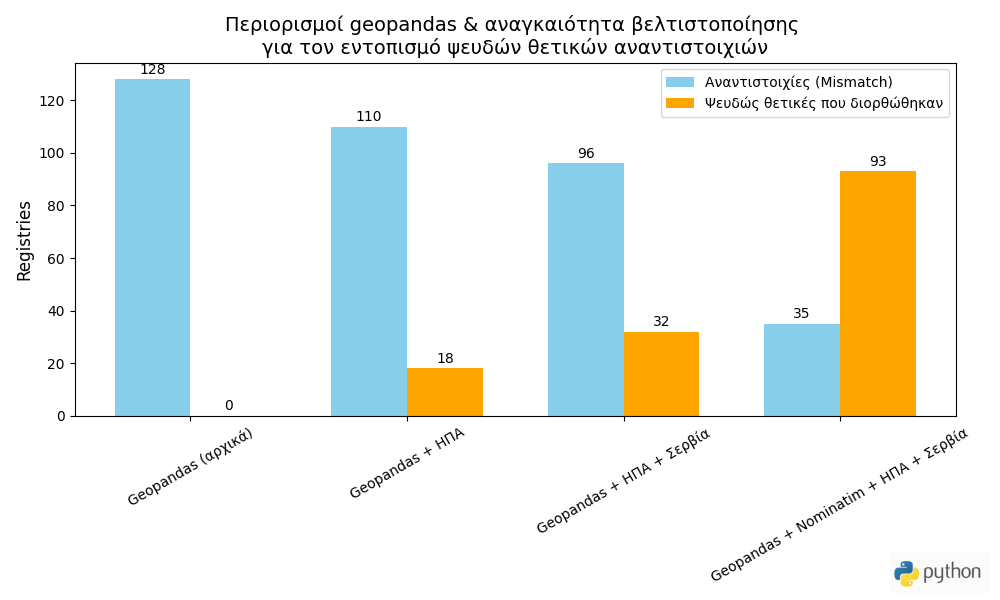
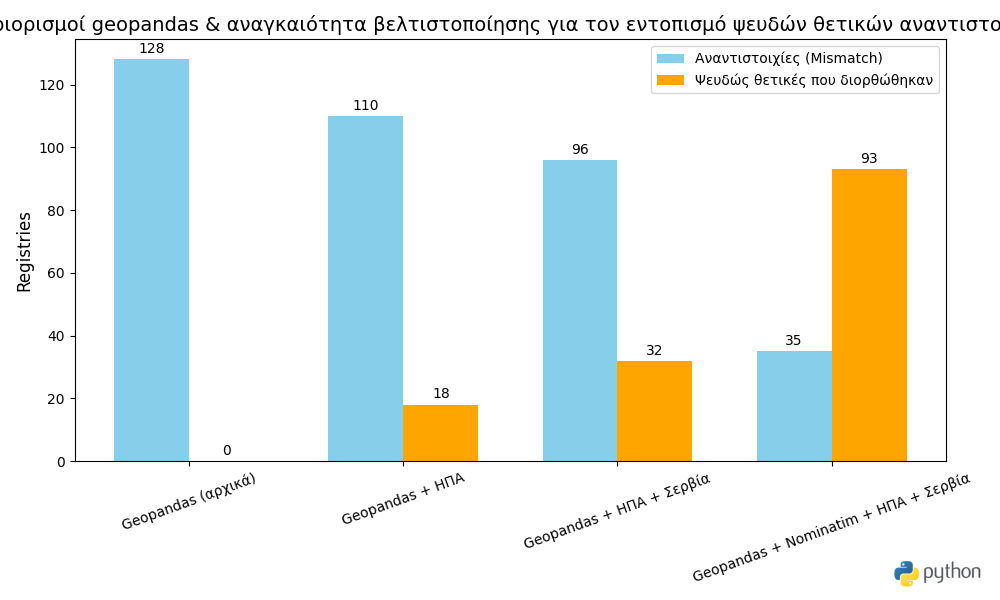
changed greek to english for encoding porpuses

diff --git a/mismatches_and_reverse_geocoding.py b/mismatches_and_reverse_geocoding.py
@@ -155,7 +155,7 @@ for _, row in combined_geo_dataframe.iterrows():
     if country_match == "no":
         calculated_mismatches_1 += 1
 
-print(f"\nΥπολογίζοντας αποκλειστικά με geopandas, βρίσκω {calculated_mismatches_1} αναντιστοιχίες χώρας-συντεταγμένων και ανιχνεύω {false_positive_mismatches} ψευδώς θετικές αναντιστοιχίες")
+print(f"\nUsing only geopandas, I find {calculated_mismatches_1} country-coordinate mismatches and detect {false_positive_mismatches} false positive mismatches")
 
 calculated_mismatches_2 = 0
 false_positive_mismatches = 0 
@@ -176,7 +176,8 @@ for _, row in combined_geo_dataframe.iterrows():
 
 false_positive_mismatches = calculated_mismatches_1 - calculated_mismatches_2
 
-print(f"\nΥπολογίζοντας με geopandas και διορθώνοντας για ΗΠΑ, βρίσκω {calculated_mismatches_2} αναντιστοιχίες χώρας-συντεταγμένων και ανιχνεύω {false_positive_mismatches} ψευδώς θετικές αναντιστοιχίες")
+print(f"\nUsing geopandas and correcting for the USA, I find {calculated_mismatches_2} country-coordinate mismatches and detect {false_positive_mismatches} false positive mismatches")
+
 
 # Υπολογίζω mismatches με geopandas και πραγματοποιώ την διόρθωση για ΗΠΑ και Σερβία.
 
@@ -201,7 +202,7 @@ for _, row in combined_geo_dataframe.iterrows():
 
 false_positive_mismatches = calculated_mismatches_1 - calculated_mismatches_3
 
-print(f"\nΥπολογίζοντας με geopandas, και διορθώνοντας για ΗΠΑ και Σερβία, βρίσκω {calculated_mismatches_3} αναντιστοιχίες χώρας-συντεταγμένων και ανιχνεύω {false_positive_mismatches} ψευδώς θετικές αναντιστοιχίες")
+print(f"\nUsing geopandas and correcting for the USA and Serbia, I find {calculated_mismatches_3} country-coordinate mismatches and detect {false_positive_mismatches} false positive mismatches")
 
 # Υπολογίζω mismatches με geopandas και Nominatim και πραγματοποιώ την διόρθωση για ΗΠΑ και Σερβία.
 
@@ -220,18 +221,17 @@ for registry in curated_data:
 
 false_positive_mismatches = calculated_mismatches_1 - mismatch
 
-print(f"\nΥπολογίζοντας με geopandas και Nominatim και διορθώνοντας για ΗΠΑ και Σερβία, βρίσκω {mismatch} αναντιστοιχίες χώρας-συντεταγμένων και ανιχνεύω {false_positive_mismatches} ψευδώς θετικές αναντιστοιχίες")
-
+print(f"\nUsing geopandas and correcting for the USA and Serbia, I find {calculated_mismatches_3} country-coordinate mismatches and detect {false_positive_mismatches} false positive mismatches")
 
 # Bar Plot
 
 
 # Ονόματα για τα 4 ζευγάρια
 labels = [
-    "Geopandas (αρχικά)",
-    "Geopandas + ΗΠΑ",
-    "Geopandas + ΗΠΑ + Σερβία",
-    "Geopandas + Nominatim + ΗΠΑ + Σερβία"
+    "Geopandas",
+    "Geopandas + USA",
+    "Geopandas + USA + Serbia",
+    "Geopandas + Nominatim + USA + Serbia"
 ]
 
 # Υψος κύριων bars (mismatches)
@@ -265,9 +265,9 @@ fig, ax = plt.subplots(figsize=(10, 6)) # Πλαίσιο fig και άξονες
 # Το πλάτος κάθε μπαρας είναι το 35% δια του 2 του διαθέσιμου κενού.
 # label το όνομα της κάθε μπάρας και color το χρώμα
 
-bars1 = ax.bar(x - width/2, mismatches, width, label='Αναντιστοιχίες (Mismatch)', color='skyblue') # Μπάρες mismatches
+bars1 = ax.bar(x - width/2, mismatches, width, label='(Mismatch)', color='skyblue') # Μπάρες mismatches
 
-bars2 = ax.bar(x + width/2, false_positives, width, label='Ψευδώς θετικές που διορθώθηκαν', color='orange') # Μπάρες false positives
+bars2 = ax.bar(x + width/2, false_positives, width, label='corrected false positives', color='orange') # Μπάρες false positives
 
 # Τίτλοι και ετικέτες
 # ax.set_ylabel() τίτλος για άξονα y
@@ -278,7 +278,7 @@ bars2 = ax.bar(x + width/2, false_positives, width, label='Ψευδώς θετι
 
 
 ax.set_ylabel("Registries", fontsize=12)
-ax.set_title("Περιορισμοί geopandas & αναγκαιότητα βελτιστοποίησης για τον εντοπισμό ψευδών θετικών αναντιστοιχιών", fontsize=14)
+ax.set_title("Limitations of geopandas & the need for refinement to identify false positive mismatches",fontsize=14)
 ax.set_xticks(x)
 ax.set_xticklabels(labels, rotation=20)
 ax.legend()
